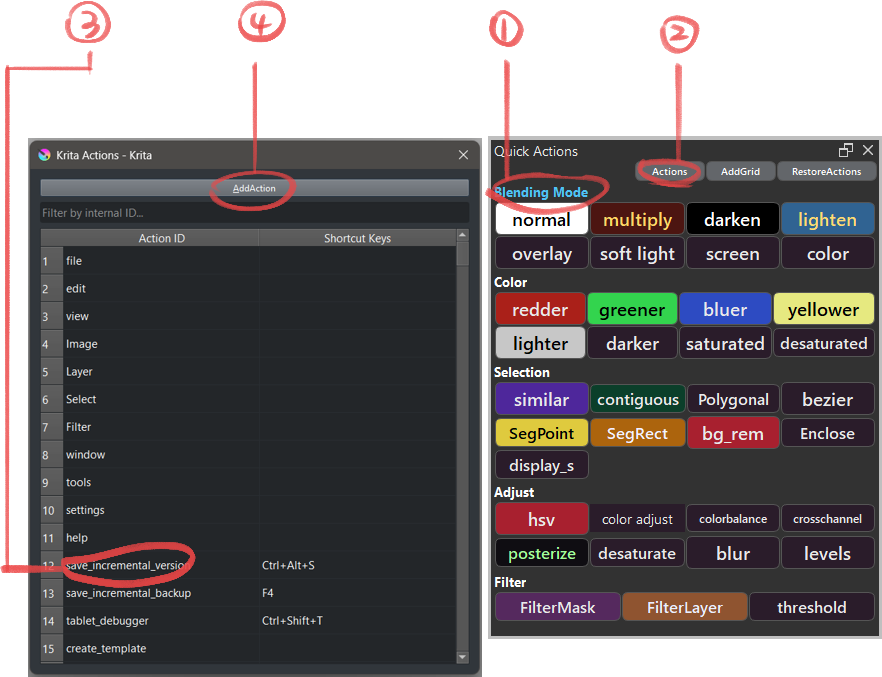
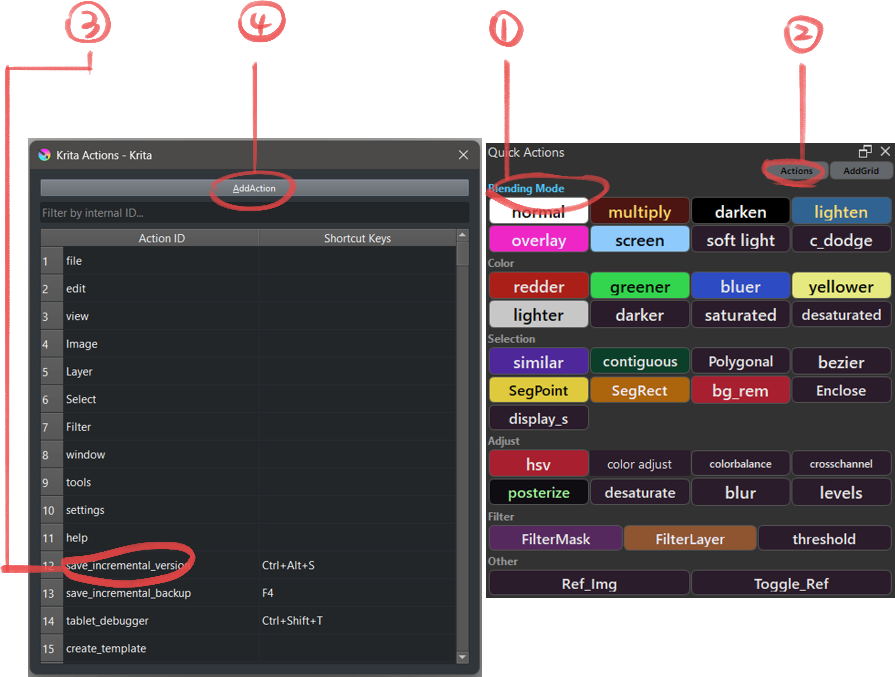
added Notifier

diff --git a/quick_access_manager/shortcut_manager.py b/quick_access_manager/shortcut_manager.py
@@ -78,14 +78,8 @@ class ShortcutAccessDockerWidget(QDockWidget):
         self.add_grid_btn.setFixedWidth(70)
         self.add_grid_btn.setStyleSheet(docker_btn_style())
 
-        # Restore Actions button
-        self.restore_grid_btn = QPushButton("RestoreActions")
-        self.restore_grid_btn.setFixedWidth(100)
-        self.restore_grid_btn.setStyleSheet(docker_btn_style())
-
         button_layout.addWidget(self.show_all_btn)
         button_layout.addWidget(self.add_grid_btn)
-        button_layout.addWidget(self.restore_grid_btn)
 
         self.main_layout.addLayout(button_layout)
 
@@ -93,7 +87,11 @@ class ShortcutAccessDockerWidget(QDockWidget):
         """Setup button connections"""
         self.show_all_btn.clicked.connect(self.show_all_shortcut_popup)
         self.add_grid_btn.clicked.connect(self.add_grid)
-        self.restore_grid_btn.clicked.connect(self.restore_grids_from_file)
+
+        # restore shortcut grids when Krita starts
+        application = Krita.instance()
+        appNotifier = application.notifier()
+        appNotifier.windowCreated.connect(self.restore_grids_from_file)
 
     def show_all_shortcut_popup(self):
         """Show the action selection popup"""

diff --git a/README.md b/README.md
@@ -47,15 +47,6 @@ To customize an individual shortcut button, hold <kbd>Alt</kbd> and right-click 
 If the "Use Global Settings" is checked, the color of font and background will use the value in the global config file.
 ![Shortcut Button Config](./quick_access_manager/image/image4.png)
 
-## How the config restore works
-When Krita starts, the brush preset settings will be loaded automatically.
-
-However, the shortcut settings will not be loaded automatically because it is difficult to track the timing when Krita loads all shortcut actions.
-
-Therefore, you need to click the [RestoreActions] button manually to restore the shortcut settings.
-
-**The Actions Popup Window is not affected by this.**
-
 ## Sort/Remove
 
 **Sort:**  
